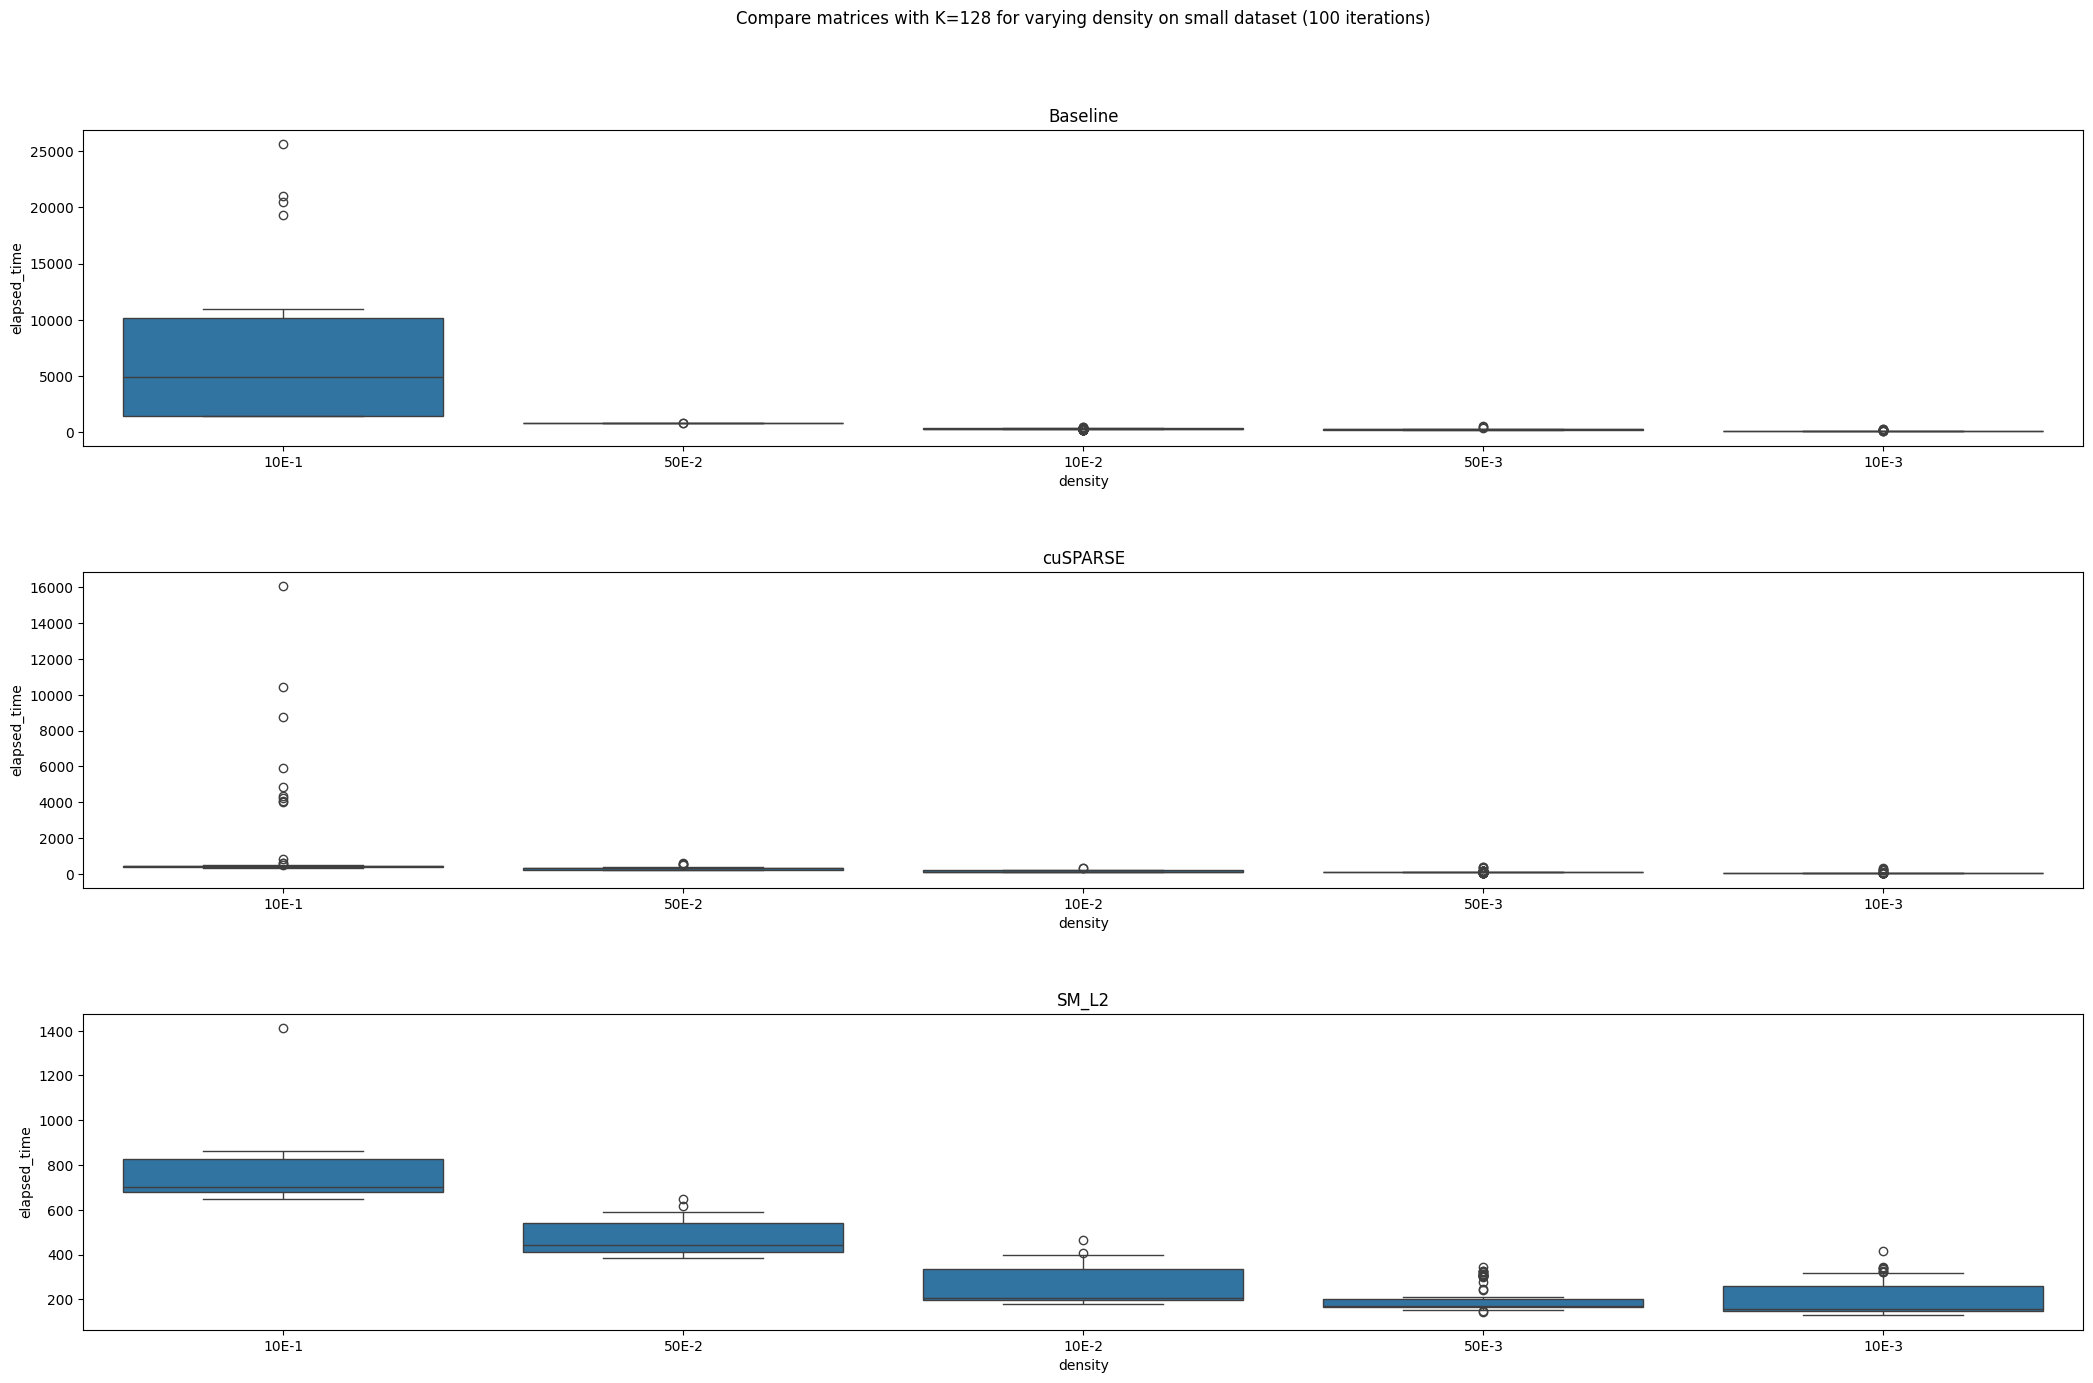
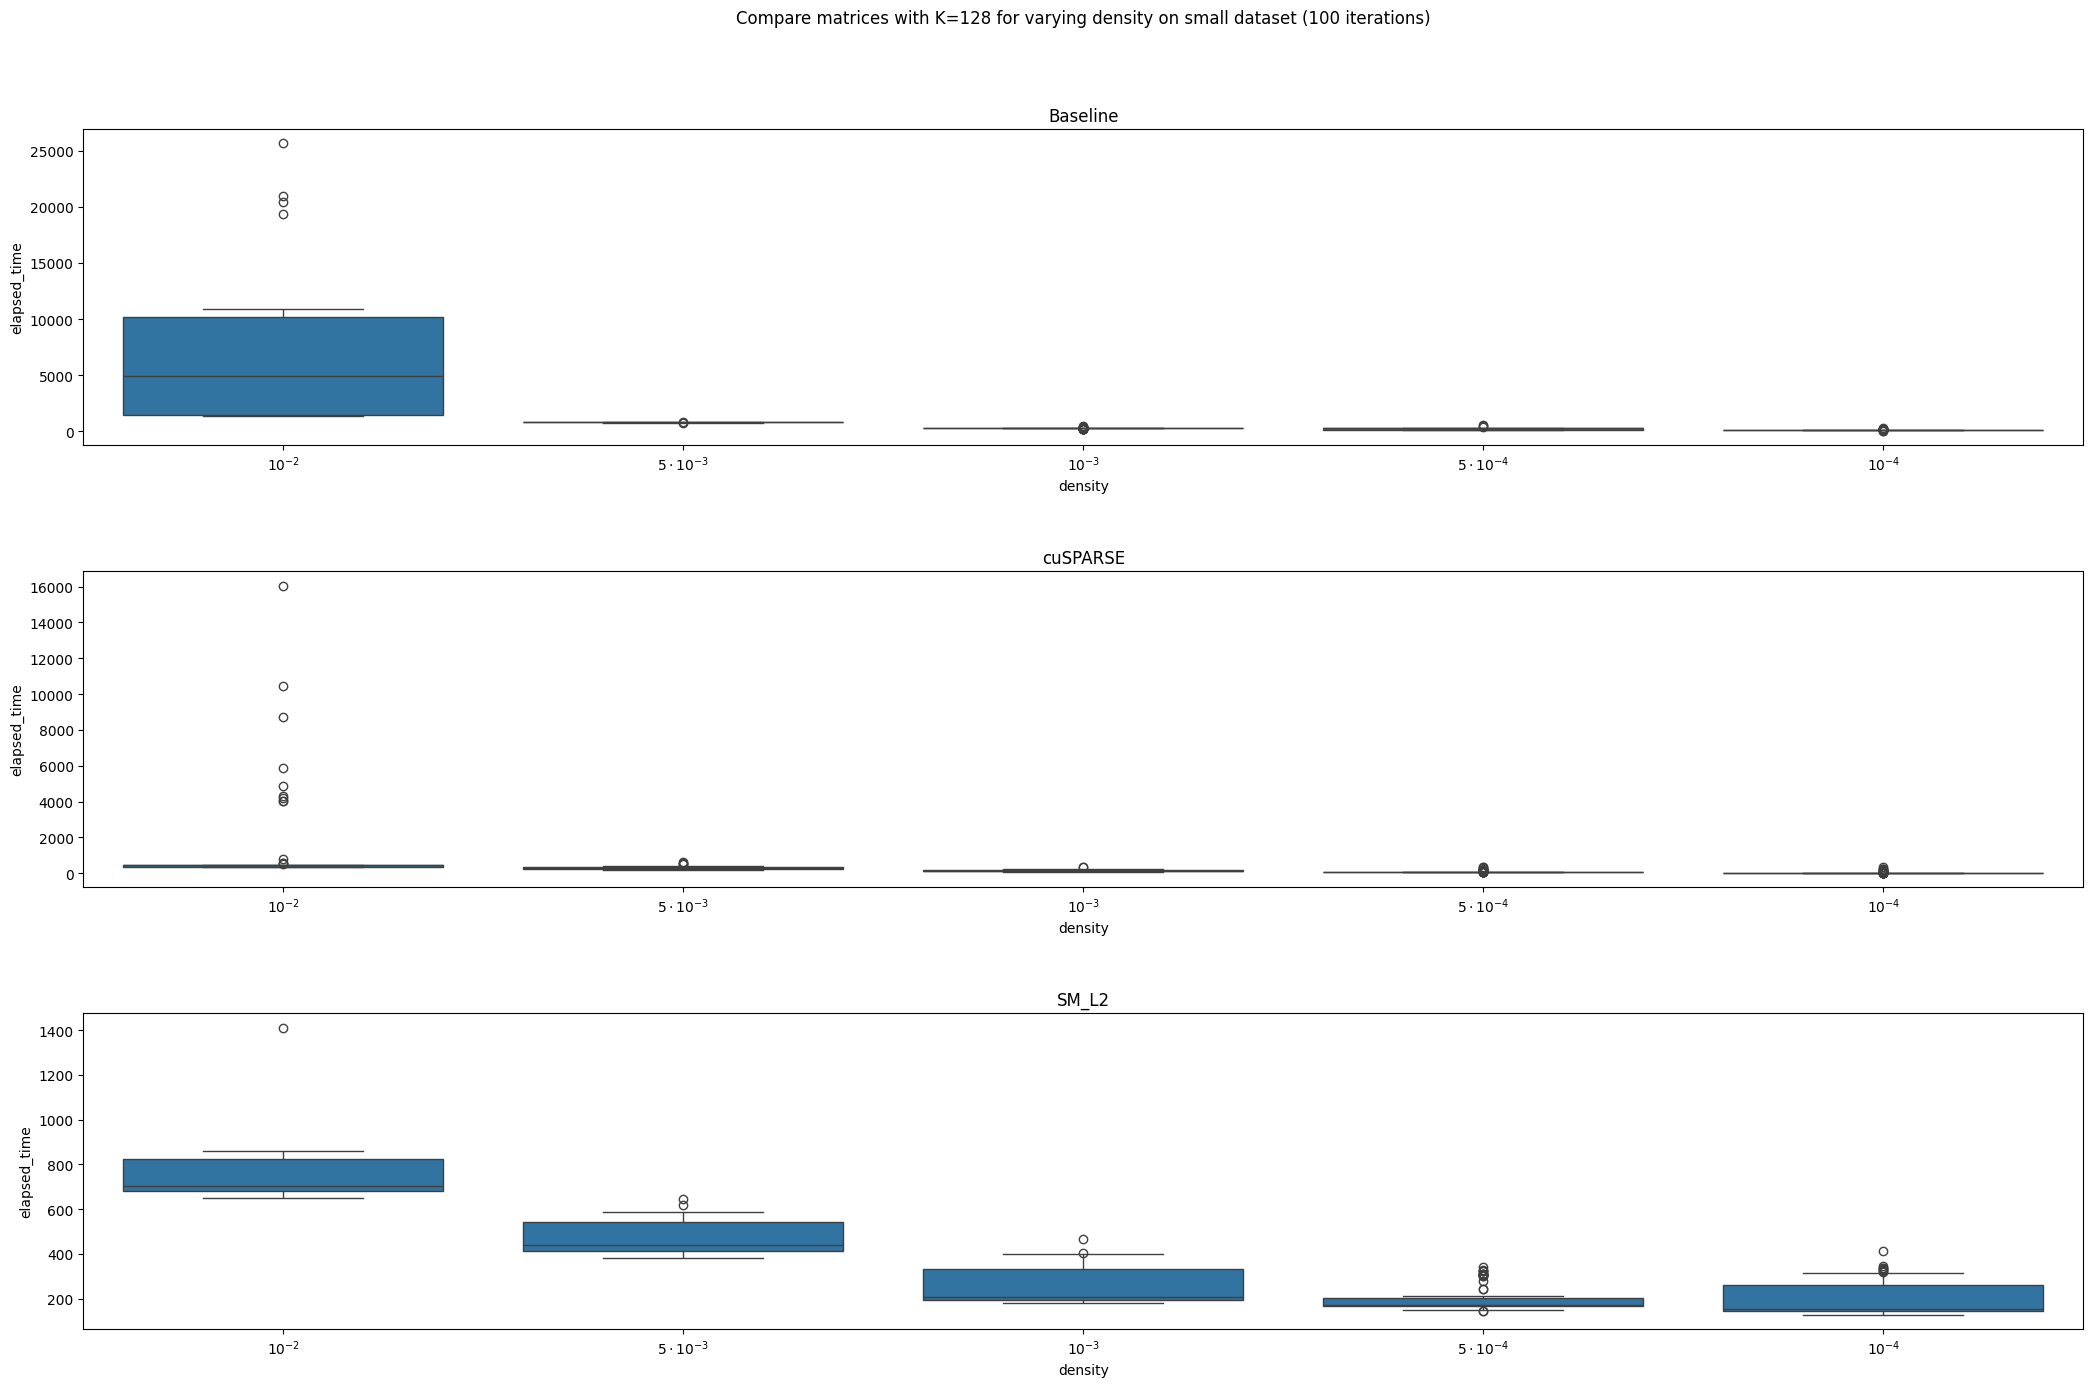
replace all 10E-blub with nicer writings

diff --git a/results/analysis/plots.py b/results/analysis/plots.py
@@ -59,16 +59,30 @@ def make_quantreg(result_df):
 def format_to_exp(value):
     temp = '%E' % (value)
     temp_l = temp.split('.')
-    ints = str(10*int(temp_l[0]))
     back_l = temp_l[1].split('E')
-    expon = str(int(back_l[1])+1)
+    expon = int(back_l[1])
     back_l_stripped = back_l[0].rstrip('0')
-    if back_l_stripped != '':
-        commas = str(round(int(back_l_stripped)/10))
-        value_str = ints + "." + commas + "E" + expon
+    if back_l_stripped == '':
+        val_int = int(temp_l[0])
+        if val_int == 1:
+            val = ''
+            fstr = "$10^{" + str(expon) + "}$"
+        else:
+            val = str(val_int)
+            fstr = "$" + str(val) + " \cdot 10^{" + str(expon) + "}$"
+            # fstr = "${} \cdot 10^{\{\}}$"
     else:
-        commas = ''
-        value_str = ints + "E" + expon
+        val = round(float('0.' + str(back_l_stripped)) + int(temp_l[0]),2)
+        # fstr = "${} \cdot 10^{\{\}}$"
+        fstr = "$" + str(val) + " \cdot 10^{" + str(expon) + "}$"
+
+    value_str = fstr
+    # if back_l_stripped != '':
+    #     commas = str(round(int(back_l_stripped)/10))
+    #     value_str = fstr.format(val, expon) #r'$' + ints + r"." + commas + r"\\cdot 10e{" + expon + r'}$'
+    # else:
+    #     commas = ''
+    #     value_str = r'$' + ints + r"\\cdot 10e{" + expon + r'}$'
     return value_str
 
 def get_data(result_data):
@@ -240,18 +254,18 @@ def plot(iterations, base_path, save_name=""):
 
 
 if __name__ == '__main__':
-    # plot(100, "./sddmm_data_results_100_iterations/data_sets/IMDB/", "imdb")
-    # plot(100, "./sddmm_data_results_100_iterations/data_sets/IMDB_companion/", "imdb-companion")
-    # plot(100, "./sddmm_data_results_100_iterations/data_sets/patents/", "patents")
-    # plot(100, "./sddmm_data_results_100_iterations/data_sets/patents_companion/", "patents-companion")
+    plot(100, "./sddmm_data_results_100_iterations/data_sets/IMDB/", "imdb")
+    plot(100, "./sddmm_data_results_100_iterations/data_sets/IMDB_companion/", "imdb-companion")
+    plot(100, "./sddmm_data_results_100_iterations/data_sets/patents/", "patents")
+    plot(100, "./sddmm_data_results_100_iterations/data_sets/patents_companion/", "patents-companion")
     plot(100, "./sddmm_data_results_100_iterations/data_sets/patents_main/", "patents-main")
-    # plot(100, "./sddmm_data_results_100_iterations/data_sets/patents_main_companion/", "patents-main-companion")
-    # plot(100, "./sddmm_data_results_100_iterations/sparsity_large_2/K32/", "sparsity-large-2-k32")
-    # plot(100, "./sddmm_data_results_100_iterations/sparsity_large_2/K128/", "sparsity-large-2-k128")
-    # plot(100, "./sddmm_data_results_100_iterations/sparsity_large_2/K512/", "sparsity-large-2-k512")
-    # plot(100, "./sddmm_data_results_100_iterations/sparsity_small/K32/", "sparsity-small-k32")
-    # plot(100, "./sddmm_data_results_100_iterations/sparsity_small/K128/", "sparsity-small-k128")
-    # plot(100, "./sddmm_data_results_100_iterations/sparsity_small/K512/", "sparsity-small-k512")
+    plot(100, "./sddmm_data_results_100_iterations/data_sets/patents_main_companion/", "patents-main-companion")
+    plot(100, "./sddmm_data_results_100_iterations/sparsity_large_2/K32/", "sparsity-large-2-k32")
+    plot(100, "./sddmm_data_results_100_iterations/sparsity_large_2/K128/", "sparsity-large-2-k128")
+    plot(100, "./sddmm_data_results_100_iterations/sparsity_large_2/K512/", "sparsity-large-2-k512")
+    plot(100, "./sddmm_data_results_100_iterations/sparsity_small/K32/", "sparsity-small-k32")
+    plot(100, "./sddmm_data_results_100_iterations/sparsity_small/K128/", "sparsity-small-k128")
+    plot(100, "./sddmm_data_results_100_iterations/sparsity_small/K512/", "sparsity-small-k512")
 
     # plot(30, "./sddmm_data_results_30_iterations/data_sets/IMDB/")
     # plot(30, "./sddmm_data_results_30_iterations/data_sets/IMDB_companion/")
